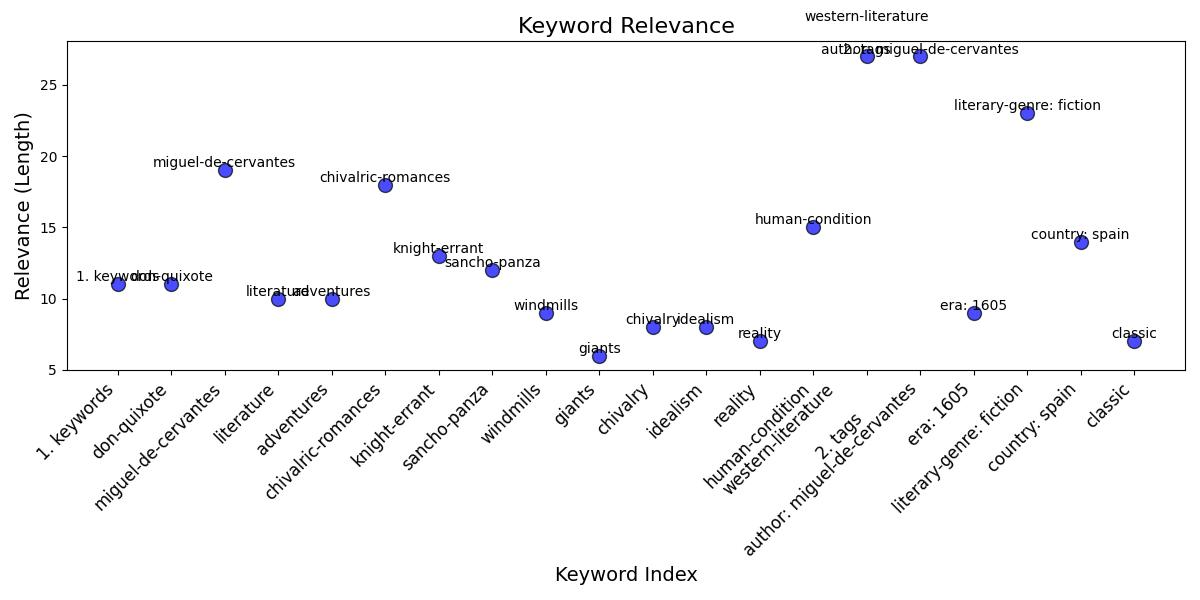
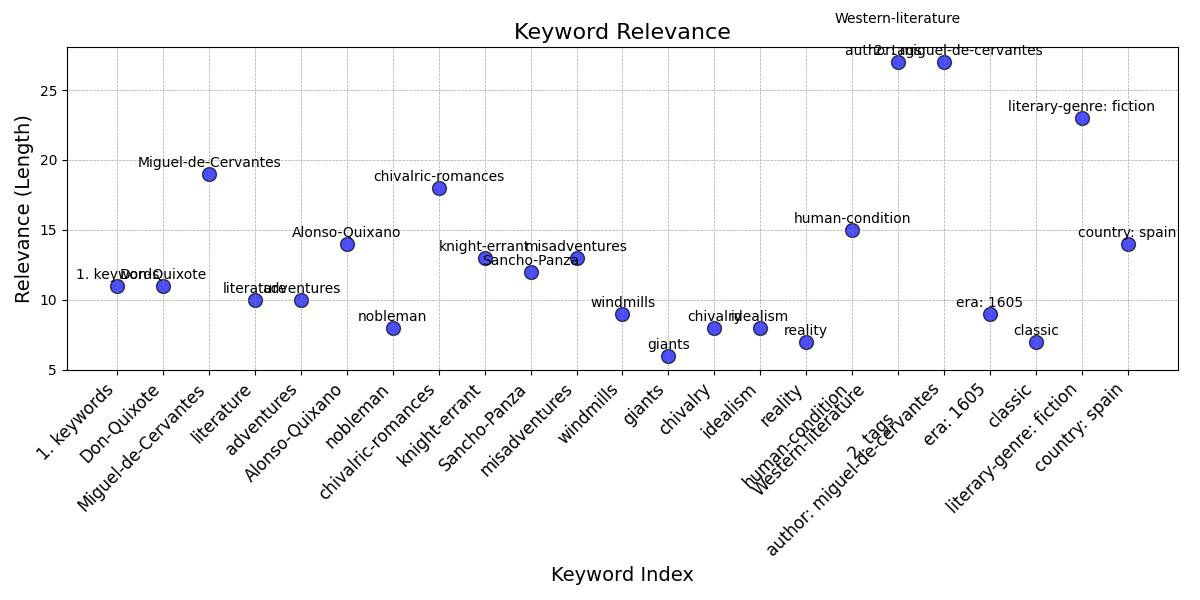
chore: commit save point

diff --git a/main.py b/main.py
@@ -251,6 +251,7 @@ def generate_pie_chart(tags: dict, output_path: str):
 def generate_scatter_plot(keywords: str, output_path: str):
     """
     Genera una gráfica de dispersión mejorada con las palabras clave y su relevancia basada en la longitud.
+    Incluye líneas de cuadrícula para mayor claridad.
     """
     # Procesamos las palabras clave
     keywords_list = keywords.split("keywords:")[-1].strip().split("\n- ")
@@ -268,10 +269,13 @@ def generate_scatter_plot(keywords: str, output_path: str):
     plt.ylabel('Relevance (Length)', fontsize=14)
     plt.xticks(x, keywords_list, rotation=45, ha='right', fontsize=12)
 
+    # Añadimos líneas de cuadrícula en color gris
+    plt.grid(color='gray', linestyle='--', linewidth=0.5, alpha=0.7)
+
     # Agregamos etiquetas a los puntos más relevantes
     for i, kw in enumerate(keywords_list):
         if y[i] > 5:  # Etiquetamos solo palabras clave con longitud mayor a 5
-            plt.text(i, y[i] + 0.2, kw, fontsize=10, ha='center')
+            plt.text(i, y[i] + 0.5, kw, fontsize=10, ha='center')
 
     plt.tight_layout()
 
